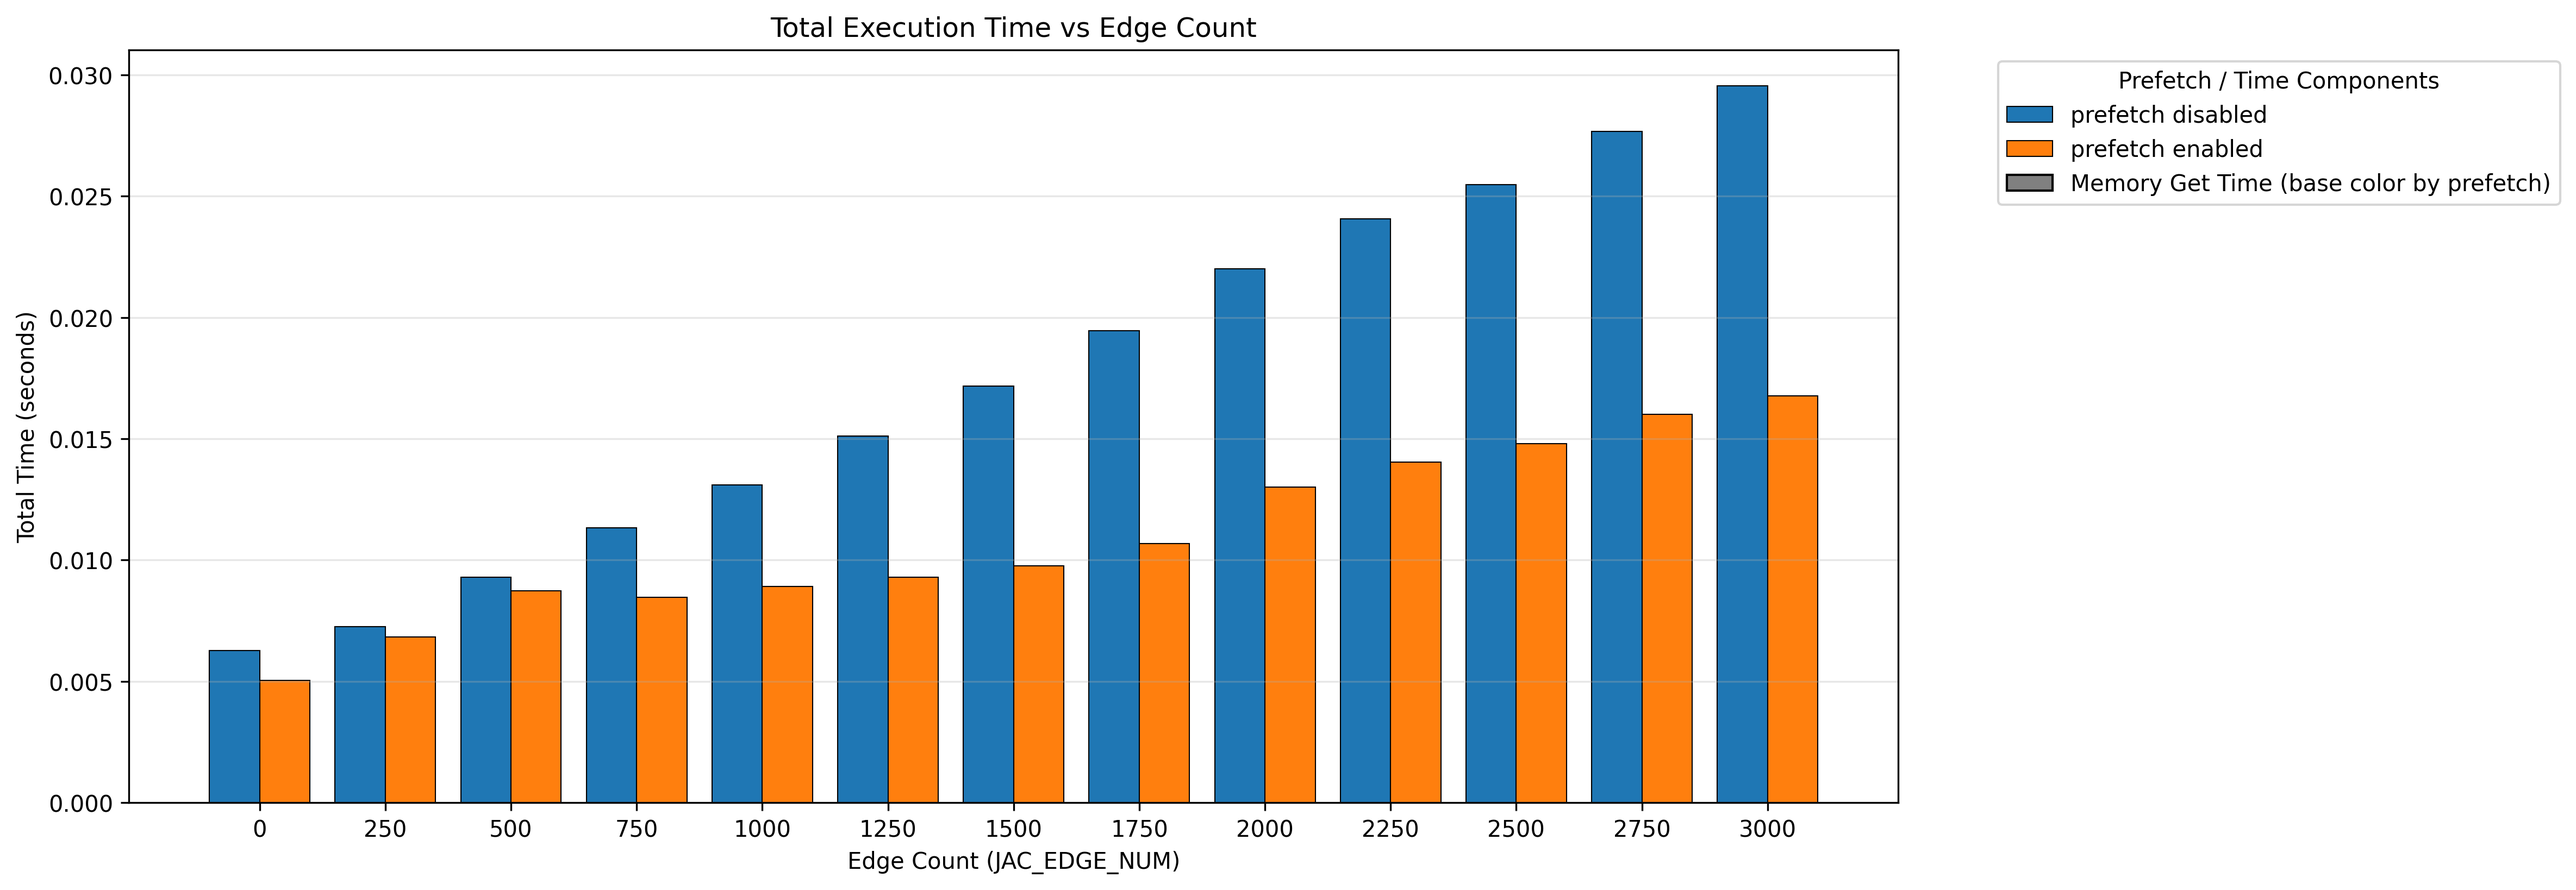
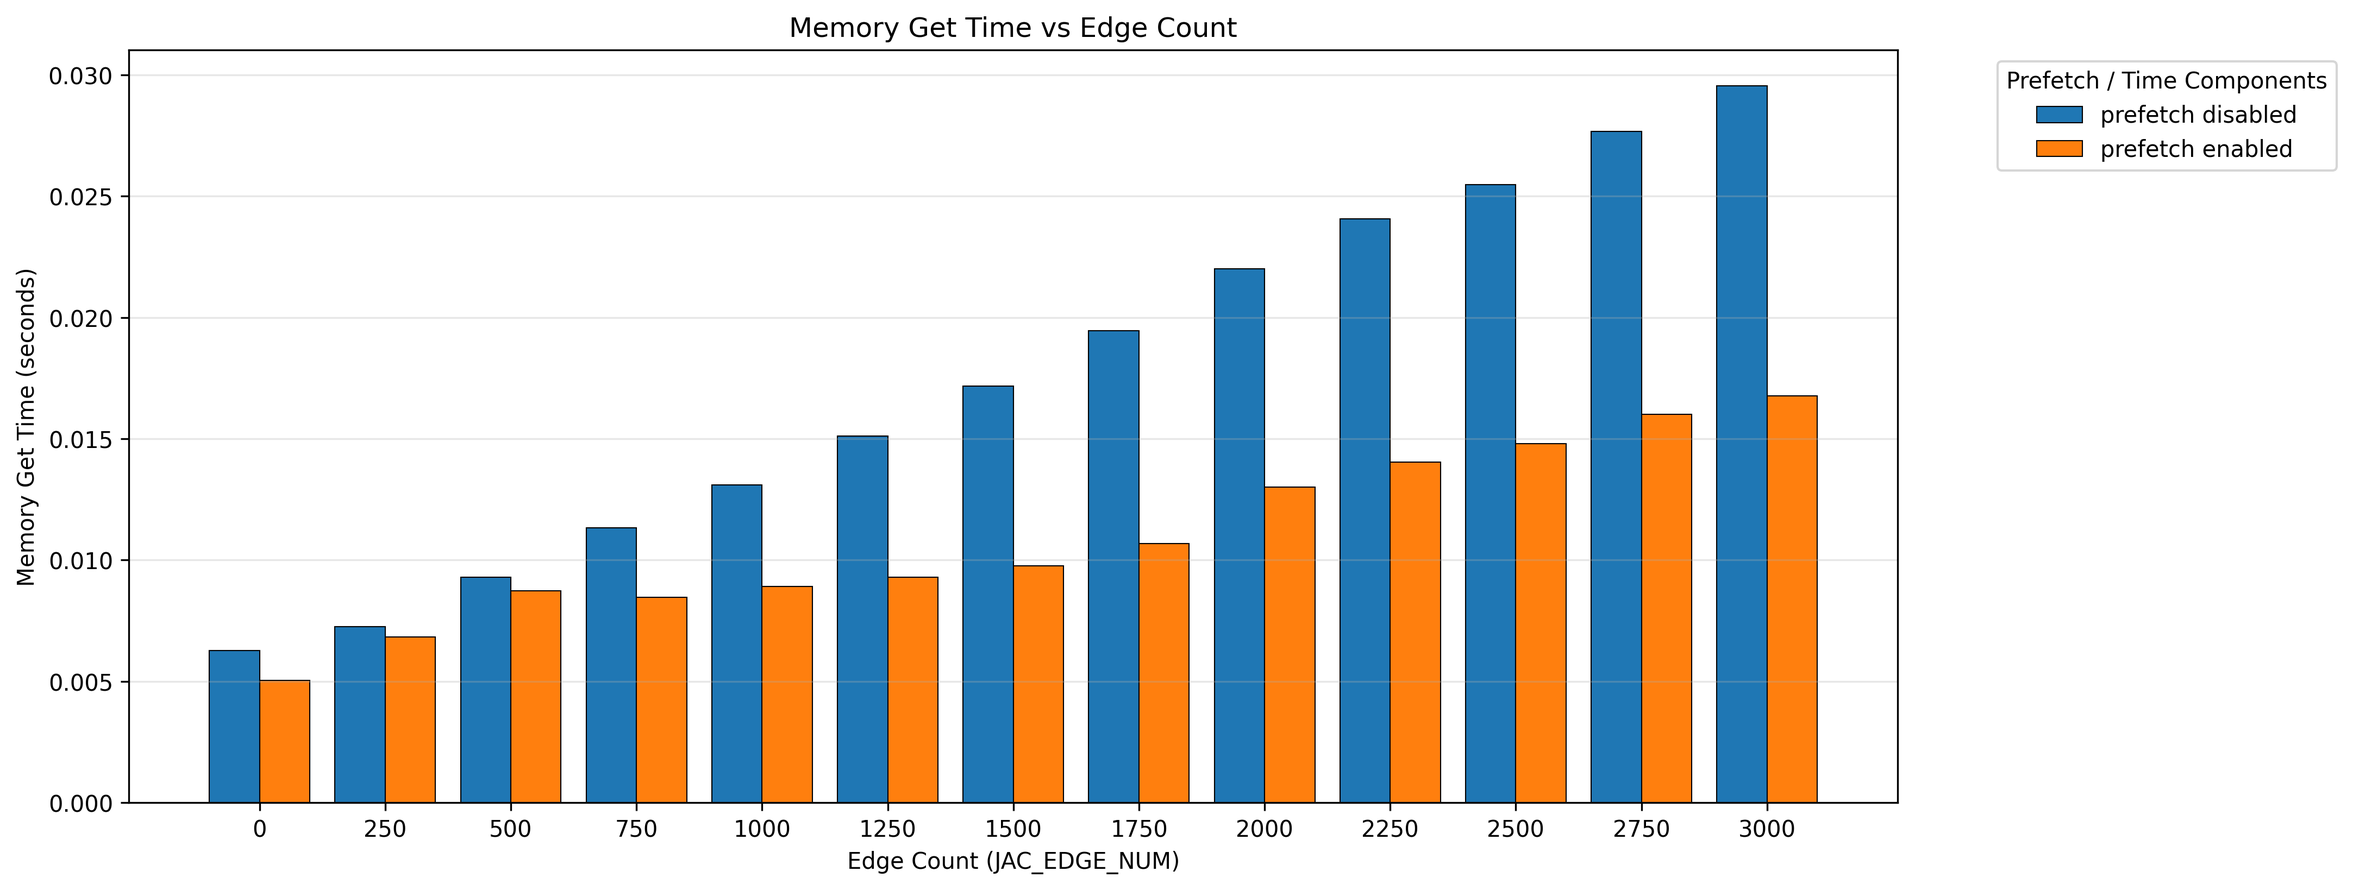
timer y axis.

diff --git a/timer.py b/timer.py
@@ -125,34 +125,34 @@ def plot_time_bars(
                 )
     
     plt.xlabel("Edge Count (JAC_EDGE_NUM)")
-    plt.ylabel("Total Time (seconds)")
-    plt.title("Total Execution Time vs Edge Count")
+    
+    if only_memory:
+        y_label = "Memory Get Time (seconds)"
+        title = "Memory Get Time vs Edge Count"
+    else:
+        y_label = "Walker Execution Time (seconds)"
+        title = "Walker Execution Time vs Edge Count"
+    
+    plt.ylabel(y_label)
+    plt.title(title)
     plt.xticks(x, edge_nums)
     ax = plt.gca()
     ax.set_ylim(bottom=0)
     plt.grid(True, axis='y', alpha=0.3)
     
-    # Create custom legend with both configuration and time component info
     handles, labels = ax.get_legend_handles_labels()
     
     if only_memory:
-        # Only show memory time legend
-        time_handles = [
-            Patch(facecolor='gray', edgecolor='black', label='Memory Get Time (base color by prefetch)'),
-        ]
+        time_handles = []
     else:
-        # Add time component patches
-        time_handles = [
-            Patch(facecolor='gray', edgecolor='black', label='Traversal Time (base color by prefetch)'),
-        ]
-        
-        if not hide_prefetch:
-            time_handles.insert(0, Patch(facecolor='orange', edgecolor='black', label='Prefetch Time'))
+        time_handles = []
         
         if not hide_ttg:
-            time_handles.insert(0, Patch(facecolor='green', edgecolor='black', label='TTG Generation Time'))
+            time_handles.append(Patch(facecolor='green', edgecolor='black', label='TTG Generation Time'))
+        
+        if not hide_prefetch:
+            time_handles.append(Patch(facecolor='orange', edgecolor='black', label='Prefetch Time'))
     
-    # Combine legends
     all_handles = handles + time_handles
     plt.legend(
         handles=all_handles,
